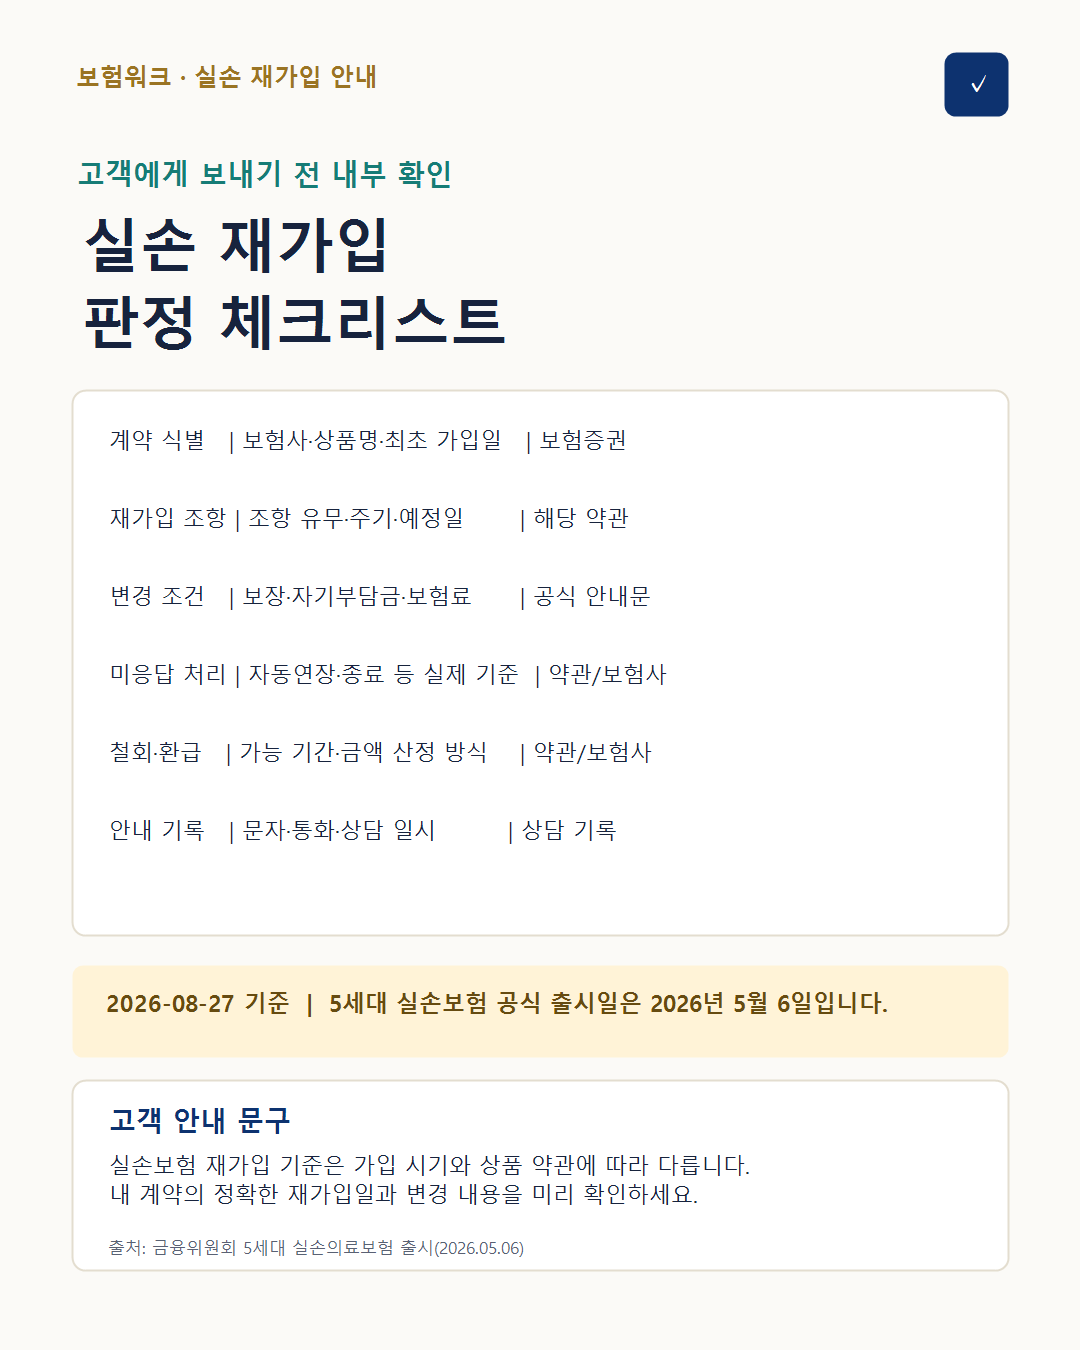
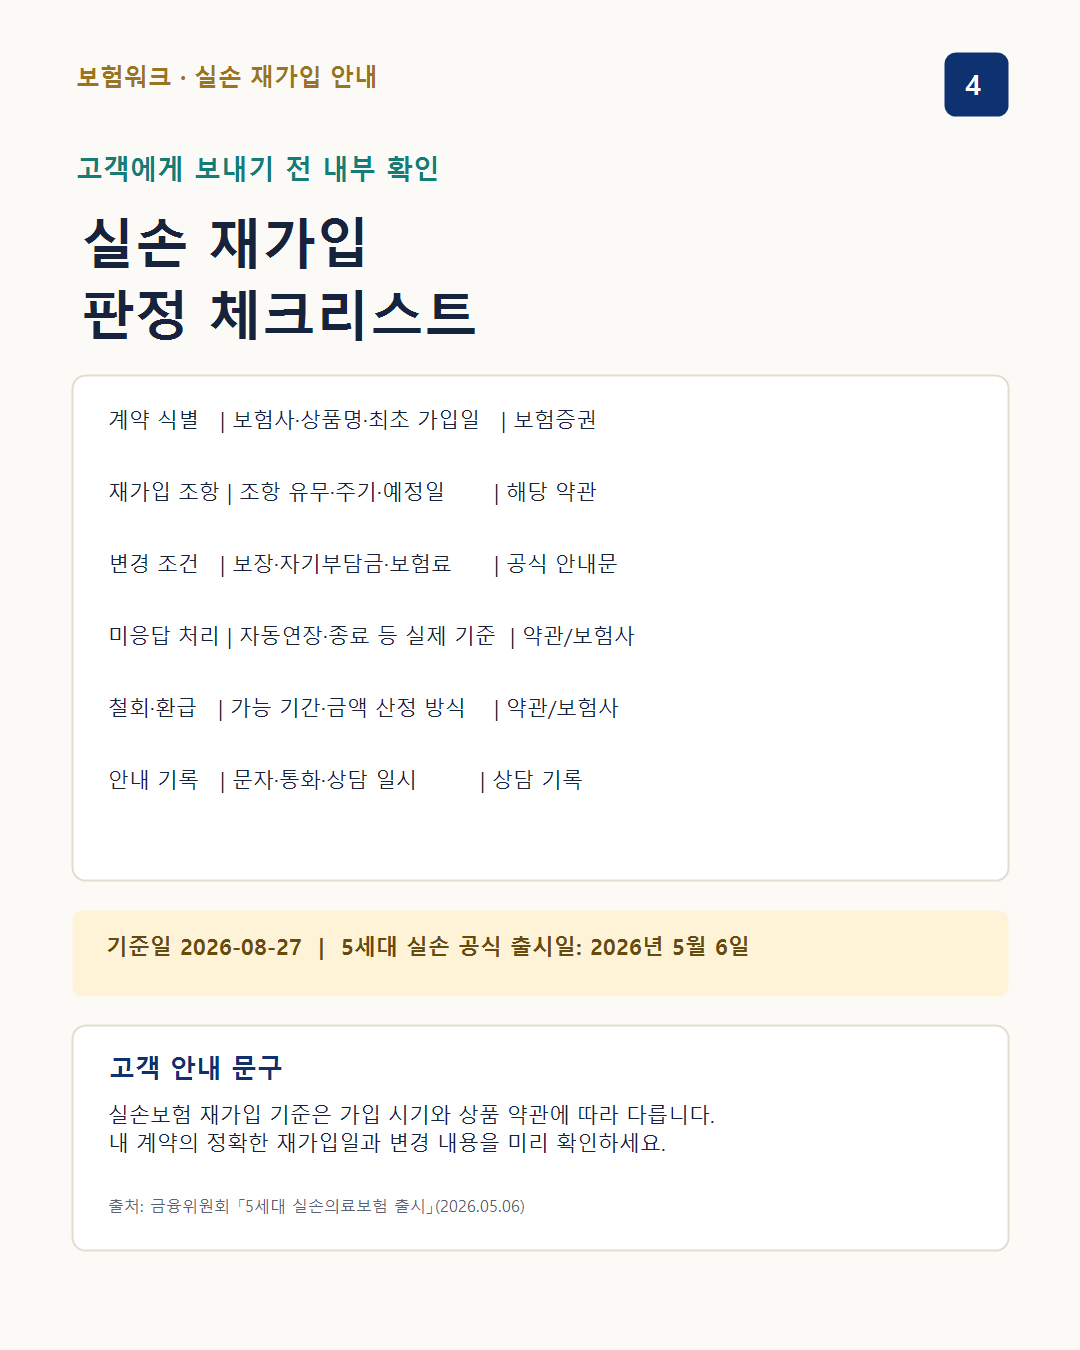
fix: add safe margins to renewal checklist card

Changed region(s): [[0.0611, 0.6533, 0.9472, 0.9333], [0.0611, 0.0933, 0.6111, 0.6222]]

diff --git a/insuwork/insubriefing/assets/re-enrollment/cards.html b/insuwork/insubriefing/assets/re-enrollment/cards.html
@@ -9,5 +9,5 @@
 <section class="card" id="card1"><div class="brand">보험워크 · 실손 재가입 안내</div><div class="num">1</div><div class="eyebrow">먼저 내 계약부터 확인하세요</div><h1 class="title">나는 실손보험<br>재가입 대상일까요?</h1><p class="sub">가입 시기만으로 단정하지 말고,<br><b>보험증권과 약관의 재가입 조항</b>을 확인해야 합니다.</p><div class="panel" style="width:600px"><h2>확인할 4가지</h2><span class="pill">최초 가입일</span><span class="pill">현재 상품명</span><span class="pill">재가입 조항</span><span class="pill">재가입 예정일</span><p style="margin-bottom:0">특히 <b>2013년 3월 이전 계약</b> 중에는 재가입 조건이 없는 계약도 있습니다.</p></div><img class="hero" src="renewal-advisor.png" alt=""><div class="bottom"><strong>한 줄 정리</strong>　“몇 세대인가요?”보다 “내 약관에 재가입 조항이 있나요?”가 먼저입니다.</div></section>
 <section class="card" id="card2"><div class="brand">보험워크 · 실손 재가입 안내</div><div class="num">2</div><div class="eyebrow">보험사 안내를 받았다면</div><h1 class="title">이 순서대로<br>확인하세요</h1><div class="panel"><div class="step"><b>1</b><div><strong>안내문 도착 여부 확인</strong><span>문자·우편·앱 알림을 확인하고 주소와 휴대전화 번호를 최신화하세요.</span></div></div><div class="step"><b>2</b><div><strong>바뀌는 조건 비교</strong><span>보장 범위, 자기부담금, 보험료, 재가입 후 계약기간을 확인하세요.</span></div></div><div class="step"><b>3</b><div><strong>기한 안에 의사 표시</strong><span>안내문에 적힌 회신 방법과 처리 기한에 따라 응답하세요.</span></div></div><div class="step"><b>4</b><div><strong>완료 여부 다시 확인</strong><span>재가입 처리 결과와 새 보험증권을 보험사에서 확인하세요.</span></div></div></div><div class="bottom"><strong>중요</strong>　보험금 청구 중이어도 재가입 절차가 끝났다고 단정하지 말고 별도로 확인하세요.</div></section>
 <section class="card" id="card3"><div class="brand">보험워크 · 실손 재가입 안내</div><div class="num">3</div><div class="eyebrow">응답을 놓쳤거나 연락을 못 받았다면</div><h1 class="title">자동연장일까요?<br>보장이 끝날까요?</h1><p class="sub">정답은 하나가 아닙니다. <b>가입한 상품과 약관</b>에 따라 처리 방식이 달라질 수 있습니다.</p><div class="check"><div><b>자동연장 여부</b>모든 실손 계약에 같은 기준이 적용되는 것은 아닙니다.</div><div><b>보장 종료 여부</b>세대명만 보고 ‘소멸’이라고 단정하지 마세요.</div><div><b>철회·환급 가능 여부</b>가능 기간과 환급 범위는 안내문·약관을 확인하세요.</div><div><b>연락처 변경</b>보험사와 담당 설계사 양쪽에 최신 정보를 등록하세요.</div></div><div class="warn"><b>주의:</b> “연락이 없으면 무조건 자동연장”, “90일 안에는 보험료 전액 환급” 같은 문구는 모든 고객에게 공통으로 안내하면 안 됩니다.</div><div class="bottom"><strong>지금 할 일</strong>　보험증권·재가입 안내문을 준비해 보험사 또는 담당 설계사에게 내 계약 기준으로 확인하세요.</div></section>
-<section class="card compact" id="card4"><div class="brand">보험워크 · 설계사용 확인표</div><div class="num">✓</div><div class="eyebrow">고객에게 보내기 전 내부 확인</div><h1 class="title">실손 재가입<br>판정 체크리스트</h1><table class="table"><thead><tr><th>확인 항목</th><th>기록할 내용</th><th>근거</th></tr></thead><tbody><tr><td>계약 식별</td><td>보험사·상품명·최초 가입일</td><td>보험증권</td></tr><tr><td>재가입 조항</td><td>조항 유무·주기·예정일</td><td>해당 약관</td></tr><tr><td>변경 조건</td><td>보장·자기부담금·보험료</td><td>공식 안내문</td></tr><tr><td>미응답 처리</td><td>자동연장·종료 등 실제 기준</td><td>약관/보험사</td></tr><tr><td>철회·환급</td><td>가능 기간·금액 산정 방식</td><td>약관/보험사</td></tr><tr><td>안내 기록</td><td>문자·통화·상담 일시</td><td>상담 기록</td></tr></tbody></table><div class="warn"><b>2026-08-27 기준 확인:</b> 5세대 실손보험 공식 출시일은 2026년 5월 6일입니다. ‘2026년 7월 이후 출시’로 안내하지 않습니다.</div><div class="panel"><h2>고객 안내 문구</h2><p>“실손보험 재가입 기준은 가입 시기와 상품 약관에 따라 다릅니다. 내 계약의 정확한 재가입일과 변경 내용을 미리 확인하세요.”</p><p class="source">출처: 금융위원회 「5세대 실손의료보험 출시」(2026.05.06). 실제 상담 시 해당 계약의 보험증권·약관·보험사 안내문을 우선합니다.</p></div></section>
+<section class="card compact" id="card4"><div class="brand">보험워크 · 설계사용 확인표</div><div class="num">4</div><div class="eyebrow">고객에게 보내기 전 내부 확인</div><h1 class="title">실손 재가입<br>판정 체크리스트</h1><table class="table"><thead><tr><th>확인 항목</th><th>기록할 내용</th><th>근거</th></tr></thead><tbody><tr><td>계약 식별</td><td>보험사·상품명·최초 가입일</td><td>보험증권</td></tr><tr><td>재가입 조항</td><td>조항 유무·주기·예정일</td><td>해당 약관</td></tr><tr><td>변경 조건</td><td>보장·자기부담금·보험료</td><td>공식 안내문</td></tr><tr><td>미응답 처리</td><td>자동연장·종료 등 실제 기준</td><td>약관/보험사</td></tr><tr><td>철회·환급</td><td>가능 기간·금액 산정 방식</td><td>약관/보험사</td></tr><tr><td>안내 기록</td><td>문자·통화·상담 일시</td><td>상담 기록</td></tr></tbody></table><div class="warn"><b>2026-08-27 기준 확인:</b> 5세대 실손보험 공식 출시일은 2026년 5월 6일입니다. ‘2026년 7월 이후 출시’로 안내하지 않습니다.</div><div class="panel"><h2>고객 안내 문구</h2><p>“실손보험 재가입 기준은 가입 시기와 상품 약관에 따라 다릅니다. 내 계약의 정확한 재가입일과 변경 내용을 미리 확인하세요.”</p><p class="source">출처: 금융위원회 「5세대 실손의료보험 출시」(2026.05.06). 실제 상담 시 해당 계약의 보험증권·약관·보험사 안내문을 우선합니다.</p></div></section>
 </main></body></html>
